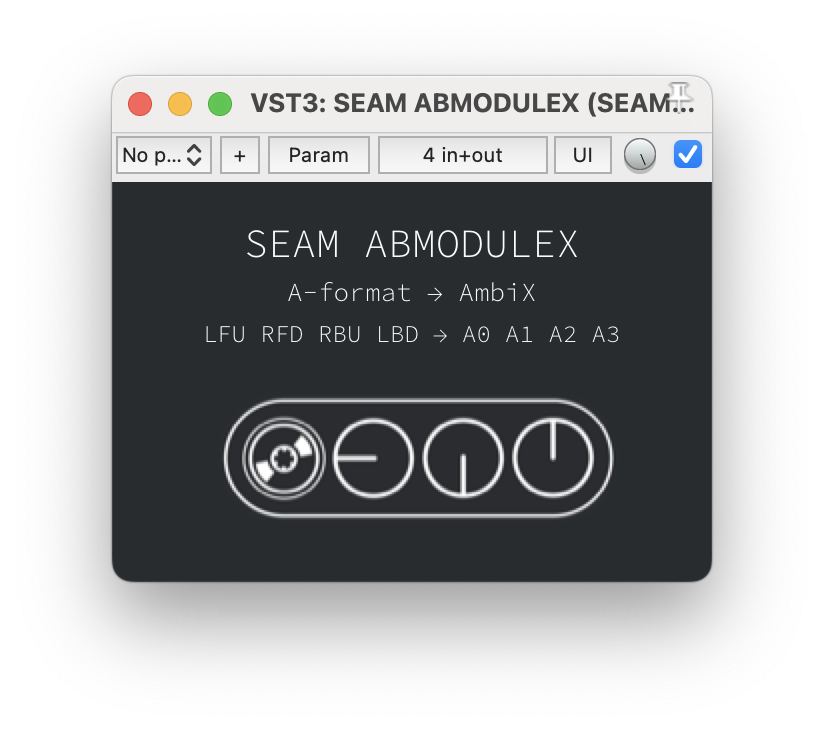
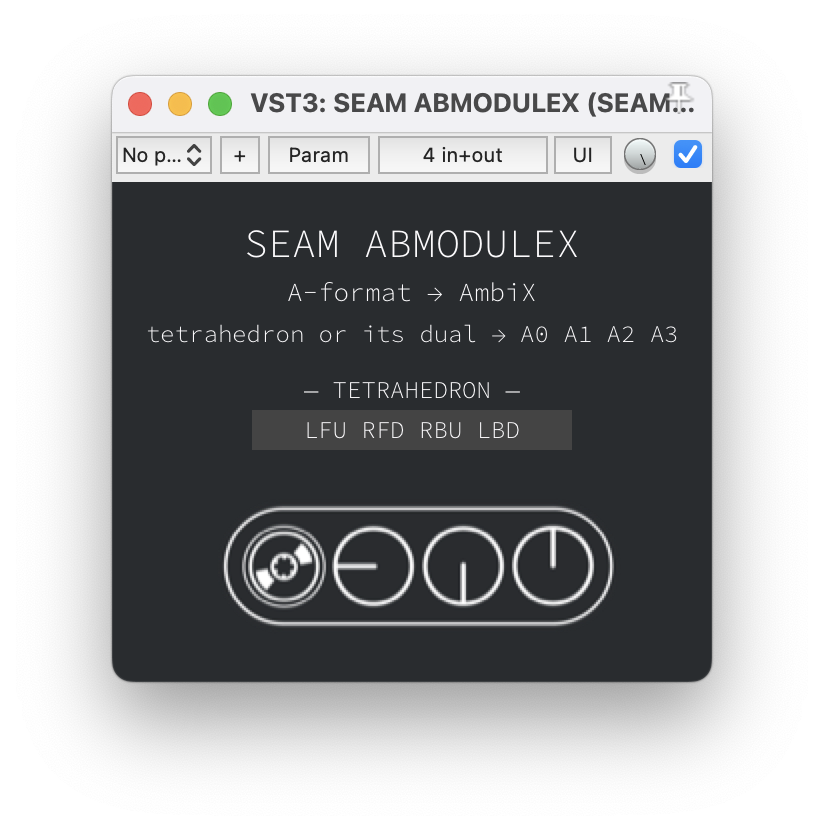
seam-ltm: v0.5.0, ABMODULEX's dual tetrahedron, DELRM's compressors, new windows (seam-ltm 132ca0b)

diff --git a/_ltm/index.md b/_ltm/index.md
@@ -3,8 +3,8 @@ title: "SEAM-LTM — Plugin Suite"
 permalink: /seam-ltm/
 toc: true
 generated_from: seam-ltm
-generated_rev: 83499b1
-generated_at: 2026-10-02
+generated_rev: 132ca0b
+generated_at: 2026-10-09
 ---
 
 <!-- GENERATO — non modificare qui: la fonte è doc/plugins.toml di seam-ltm -->
@@ -15,7 +15,7 @@ Several of them are the C++ counterpart of an algorithm that also lives in Faust
 
 Building the suite, the VST3 SDK and the installation paths are documented in the [repository README](https://github.com/s-e-a-m/seam-ltm) — they belong next to the code, where they cannot quietly go stale.
 
-Generated from [github.com/s-e-a-m/seam-ltm](https://github.com/s-e-a-m/seam-ltm) at `83499b1`.
+Generated from [github.com/s-e-a-m/seam-ltm](https://github.com/s-e-a-m/seam-ltm) at `132ca0b`.
 
 ## Format converters and rotators
 
@@ -69,7 +69,7 @@ Faust counterpart: [`seam.ambisonics.lib`](https://github.com/s-e-a-m/faust-libr
 
 **A-format 4ch → AmbiX 4ch**
 
-Tetrahedral microphone A-format to first-order AmbiX: LFU RFD RBU LBD → A0 A1 A2 A3. Pure matrix, involutory (M² = I), the inverse of BAMODULEX, and the front end of the TETRAREC chain
+Tetrahedral microphone A-format to first-order AmbiX: LFU RFD RBU LBD → A0 A1 A2 A3. Pure matrix, involutory (M² = I), the inverse of BAMODULEX, and the front end of the TETRAREC chain. A SETUP menu reads the four capsules as the dual tetrahedron, LFD RFU RBD LBU: the upright one mirrored in the horizontal plane, Z changing sign
 
 <img src="/assets/seam-ltm/img/abmodulex.png" alt="ABMODULEX" class="ltm-shot">
 
@@ -203,7 +203,7 @@ Faust counterpart: [`seam.tedesco.lib`](https://github.com/s-e-a-m/faust-librari
 
 **4ch → 4ch**
 
-delRM of Studio sul Corpo d'Ombra #2 (Cortegiani, Tedesco): four channels, each processing its own input. Channels 1 and 3 add the input to itself delayed; channels 2 and 4 multiply the delayed input, the input and its integral, into an 11:1 compressor. The delay is DDELAY's distance in metres moved to the next prime, one for the four channels. Input meters and the gain reduction of channels 2 and 4, drawn in opposite directions
+delRM of Studio sul Corpo d'Ombra #2 (Cortegiani, Tedesco): four channels, each processing its own input. Channels 1 and 3 add the input to itself delayed; channels 2 and 4 multiply the delayed input, the input and its integral, into a compressor, the score's 11:1 by default, with drive, threshold, ratio, attack and release under five sliders for each of the two. The delay is DDELAY's distance in metres moved to the next prime, one for the four channels. Input meters and the gain reduction of channels 2 and 4, drawn in opposite directions
 
 <img src="/assets/seam-ltm/img/delrm.png" alt="DELRM" class="ltm-shot">
 
